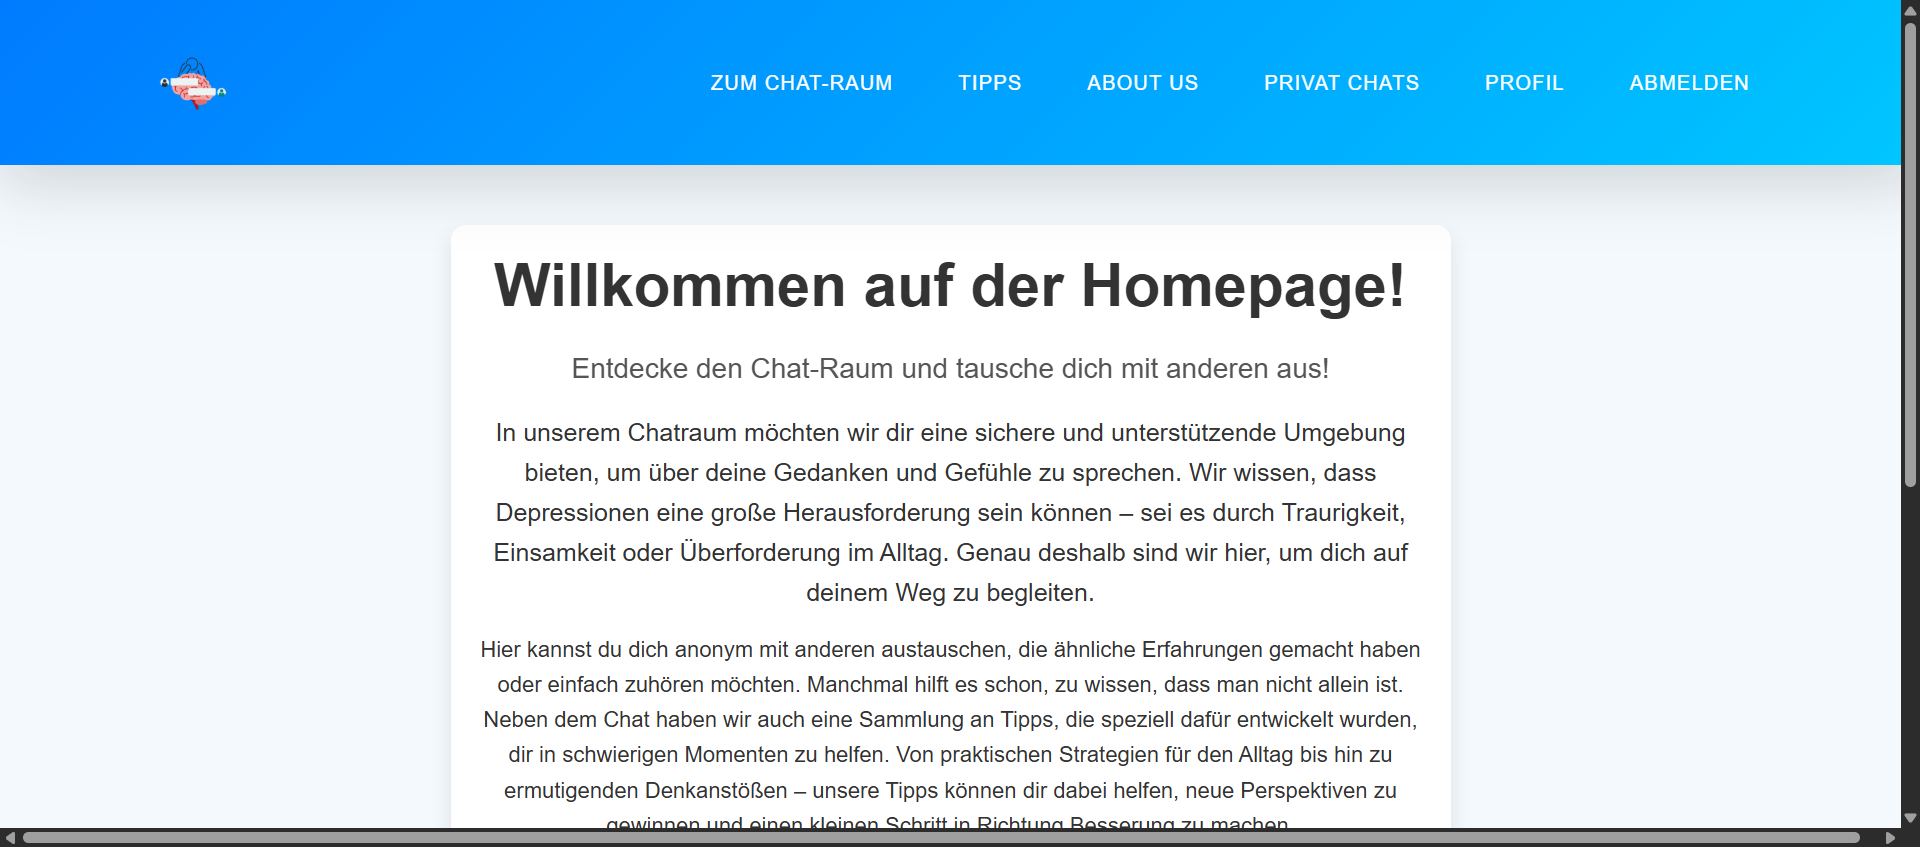
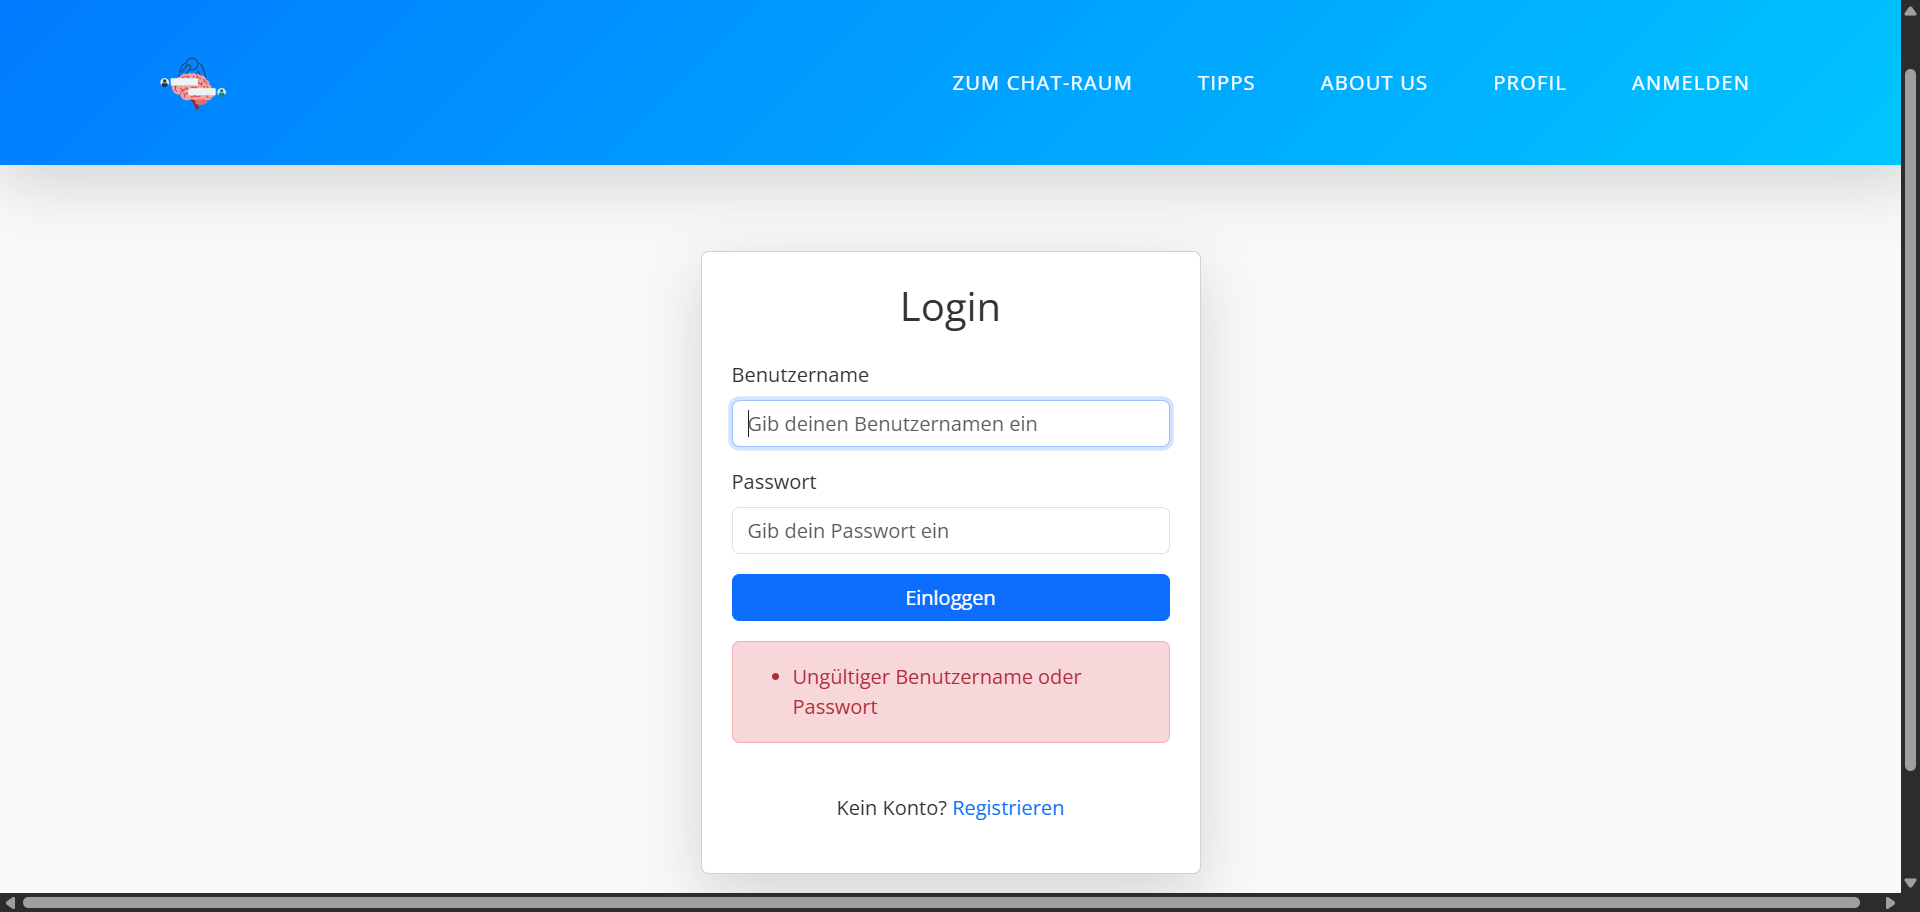
fixed petrits fehler goat

diff --git a/routes/profile.py b/routes/profile.py
@@ -1,78 +1,45 @@
-from selenium import webdriver
-from selenium.webdriver.common.by import By
-from selenium.webdriver.support.ui import WebDriverWait
-from selenium.webdriver.support import expected_conditions as EC
-import time
+from flask import Blueprint, render_template, request, redirect, url_for, flash
+from flask_login import login_required, current_user
+from werkzeug.utils import secure_filename
+import os
+from models import User
 
-def test_login_and_profile_edit():
-    driver = webdriver.Chrome()  # Dein WebDriver starten
-    driver.maximize_window()
+profile_bp = Blueprint('profile', __name__)
 
-    try:
-        # 1. Login-Seite aufrufen
-        driver.get("http://127.0.0.1:5000/auth/login")
+# Verzeichnis für Profilbilder
+UPLOAD_FOLDER = 'static/profile_pics/'
+ALLOWED_EXTENSIONS = {'png', 'jpg', 'jpeg', 'gif'}
 
-        # 2. Login-Form ausfüllen
-        WebDriverWait(driver, 10).until(
-            EC.presence_of_element_located((By.NAME, "username"))
-        )
-        driver.find_element(By.NAME, "username").send_keys("aaa")
-        driver.find_element(By.NAME, "password").send_keys("aaa")
+# Funktion zum Prüfen der erlaubten Dateitypen
+def allowed_file(filename):
+    return '.' in filename and filename.rsplit('.', 1)[1].lower() in ALLOWED_EXTENSIONS
 
-        # 3. Login-Button scrollen & per JS klicken (vermeidet 'click intercepted')
-        login_button = driver.find_element(By.CSS_SELECTOR, "button[type='submit']")
-        driver.execute_script("arguments[0].scrollIntoView(true);", login_button)
-        time.sleep(0.5)
-        driver.execute_script("arguments[0].click();", login_button)
+@profile_bp.route('/profile', methods=['GET', 'POST'])
+@login_required
+def profile():
+    if request.method == 'POST':
+        # Formulardaten abrufen
+        username = request.form['username']
+        color = request.form['color']
+        password = request.form.get('password', None)
+        profile_image = request.form.get('current_profile_image', None)
 
-        # 4. Warten, bis Login erfolgreich ist (URL enthält /home)
-        try:
-            WebDriverWait(driver, 10).until(
-                EC.url_contains("/home")
-            )
-            print("Login erfolgreich, aktuelle URL:", driver.current_url)
-        except Exception:
-            print("Login fehlgeschlagen, aktuelle URL:", driver.current_url)
-            print("Seitenquelltext (Auszug):", driver.page_source[:500])
-            return  # Test abbrechen
+        # Überprüfen, ob ein neues Profilbild hochgeladen wurde
+        if 'profile_image' in request.files:
+            file = request.files['profile_image']
+            if file and allowed_file(file.filename):
+                filename = secure_filename(file.filename)
+                # Speichern des Bildes im Upload-Ordner
+                file.save(os.path.join(UPLOAD_FOLDER, filename))
+                profile_image = 'profile_pics/' + filename  # Speichere nur den relativen Pfad
+        if not profile_image:
+            profile_image = "profile_pics/default_profile_image.png"  # Standardbild, wenn kein Bild hochgeladen wurde
 
-        # 5. Profilseite aufrufen
-        driver.get("http://127.0.0.1:5000/profile/profile")
+        # Profil aktualisieren
+        User.update_profile(current_user.id, username, color, password, profile_image)
+        flash('Profil erfolgreich aktualisiert', 'success')
+        return redirect(url_for('main.home'))
 
-        # 6. Warten bis Profil-Seite geladen ist (Username-Feld)
-        WebDriverWait(driver, 10).until(
-            EC.presence_of_element_located((By.ID, "username"))
-        )
-
-        # 7. Username ändern
-        username_input = driver.find_element(By.ID, "username")
-        username_input.clear()
-        username_input.send_keys("neuer_benutzername")
-
-        # 8. Farbe ändern
-        color_input = driver.find_element(By.ID, "color")
-        driver.execute_script("arguments[0].value = '#00FF00';", color_input)  # Setze green via JS
-
-        # 9. Passwort ändern
-        password_input = driver.find_element(By.ID, "password")
-        password_input.clear()
-        password_input.send_keys("neues_passwort")
-
-        # 10. Submit-Button scrollen & klicken via JS
-        submit_button = driver.find_element(By.CSS_SELECTOR, "button[type='submit']")
-        driver.execute_script("arguments[0].scrollIntoView(true);", submit_button)
-        time.sleep(0.5)
-        driver.execute_script("arguments[0].click();", submit_button)
-
-        # 11. Warten auf Flash-Meldung (alert-info)
-        success_alert = WebDriverWait(driver, 10).until(
-            EC.presence_of_element_located((By.CLASS_NAME, "alert-info"))
-        )
-        print("Profil erfolgreich bearbeitet, Flash-Meldung gefunden!")
-
-    finally:
-        time.sleep(2)  # Zum Debuggen, kannst du entfernen
-        driver.quit()
-
-if __name__ == "__main__":
-    test_login_and_profile_edit()
+    # Benutzerdaten abrufen
+    user = User.get_by_id(current_user.id)
+    return render_template('profile.html', user=user)

diff --git a/testfile2.py b/testfile2.py
@@ -16,8 +16,8 @@ def test_login_and_profile_edit():
         WebDriverWait(driver, 10).until(
             EC.presence_of_element_located((By.NAME, "username"))
         )
-        driver.find_element(By.NAME, "username").send_keys("aaa")
-        driver.find_element(By.NAME, "password").send_keys("aaa")
+        driver.find_element(By.NAME, "username").send_keys("fff")
+        driver.find_element(By.NAME, "password").send_keys("fff")
         driver.find_element(By.CSS_SELECTOR, "button[type='submit']").click()
 
         # 3. Warten, bis Login abgeschlossen (URL enthält /home)
